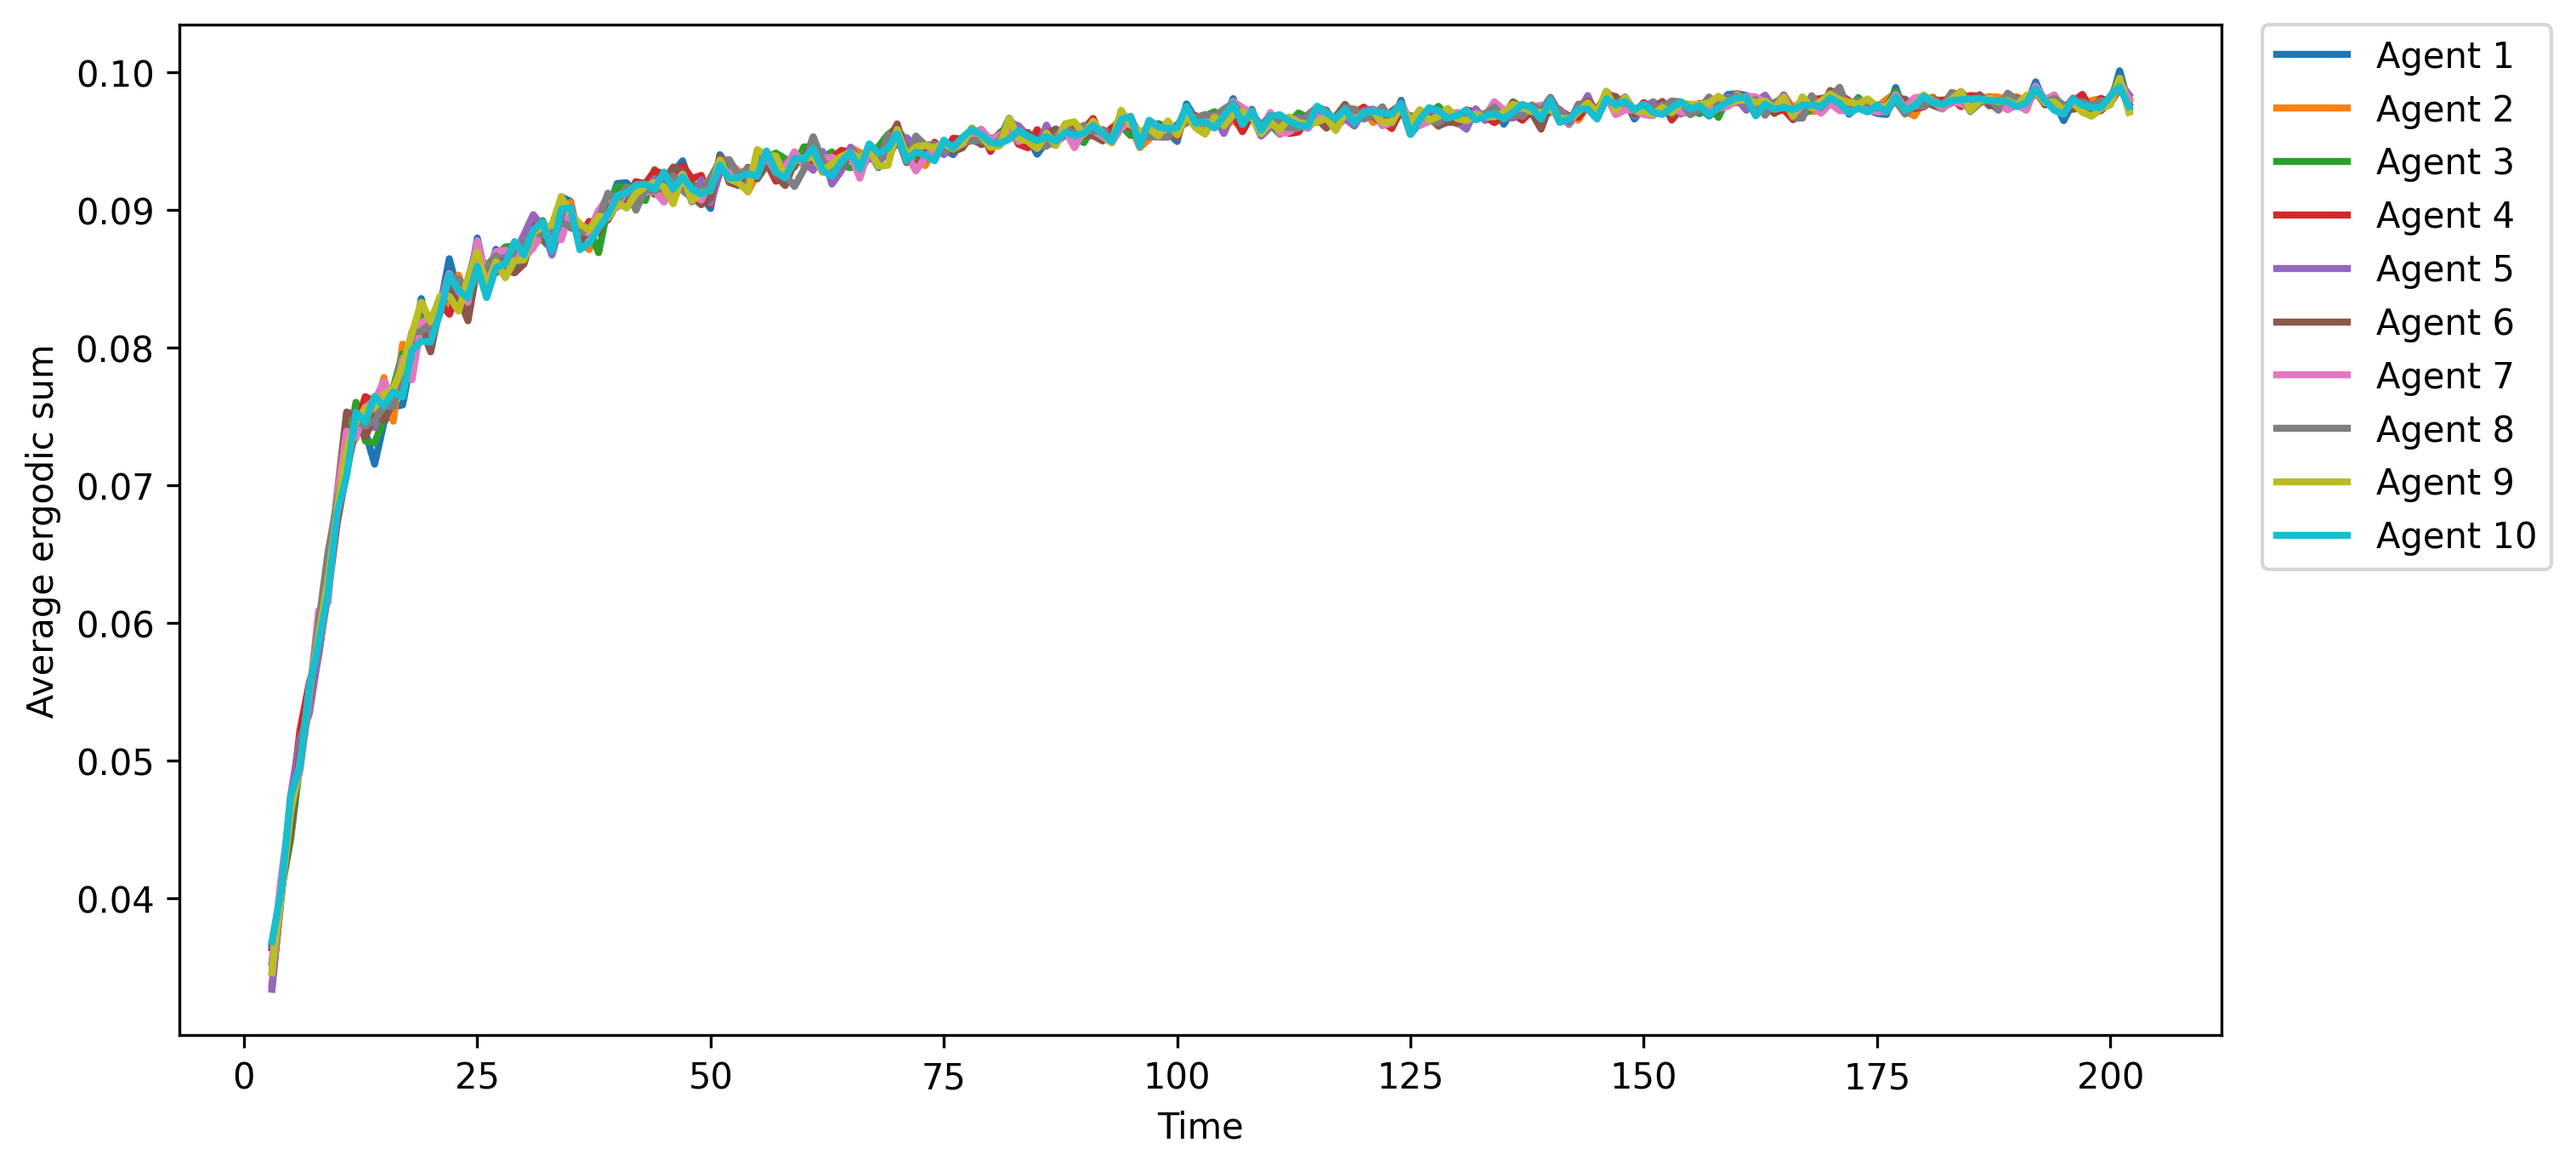
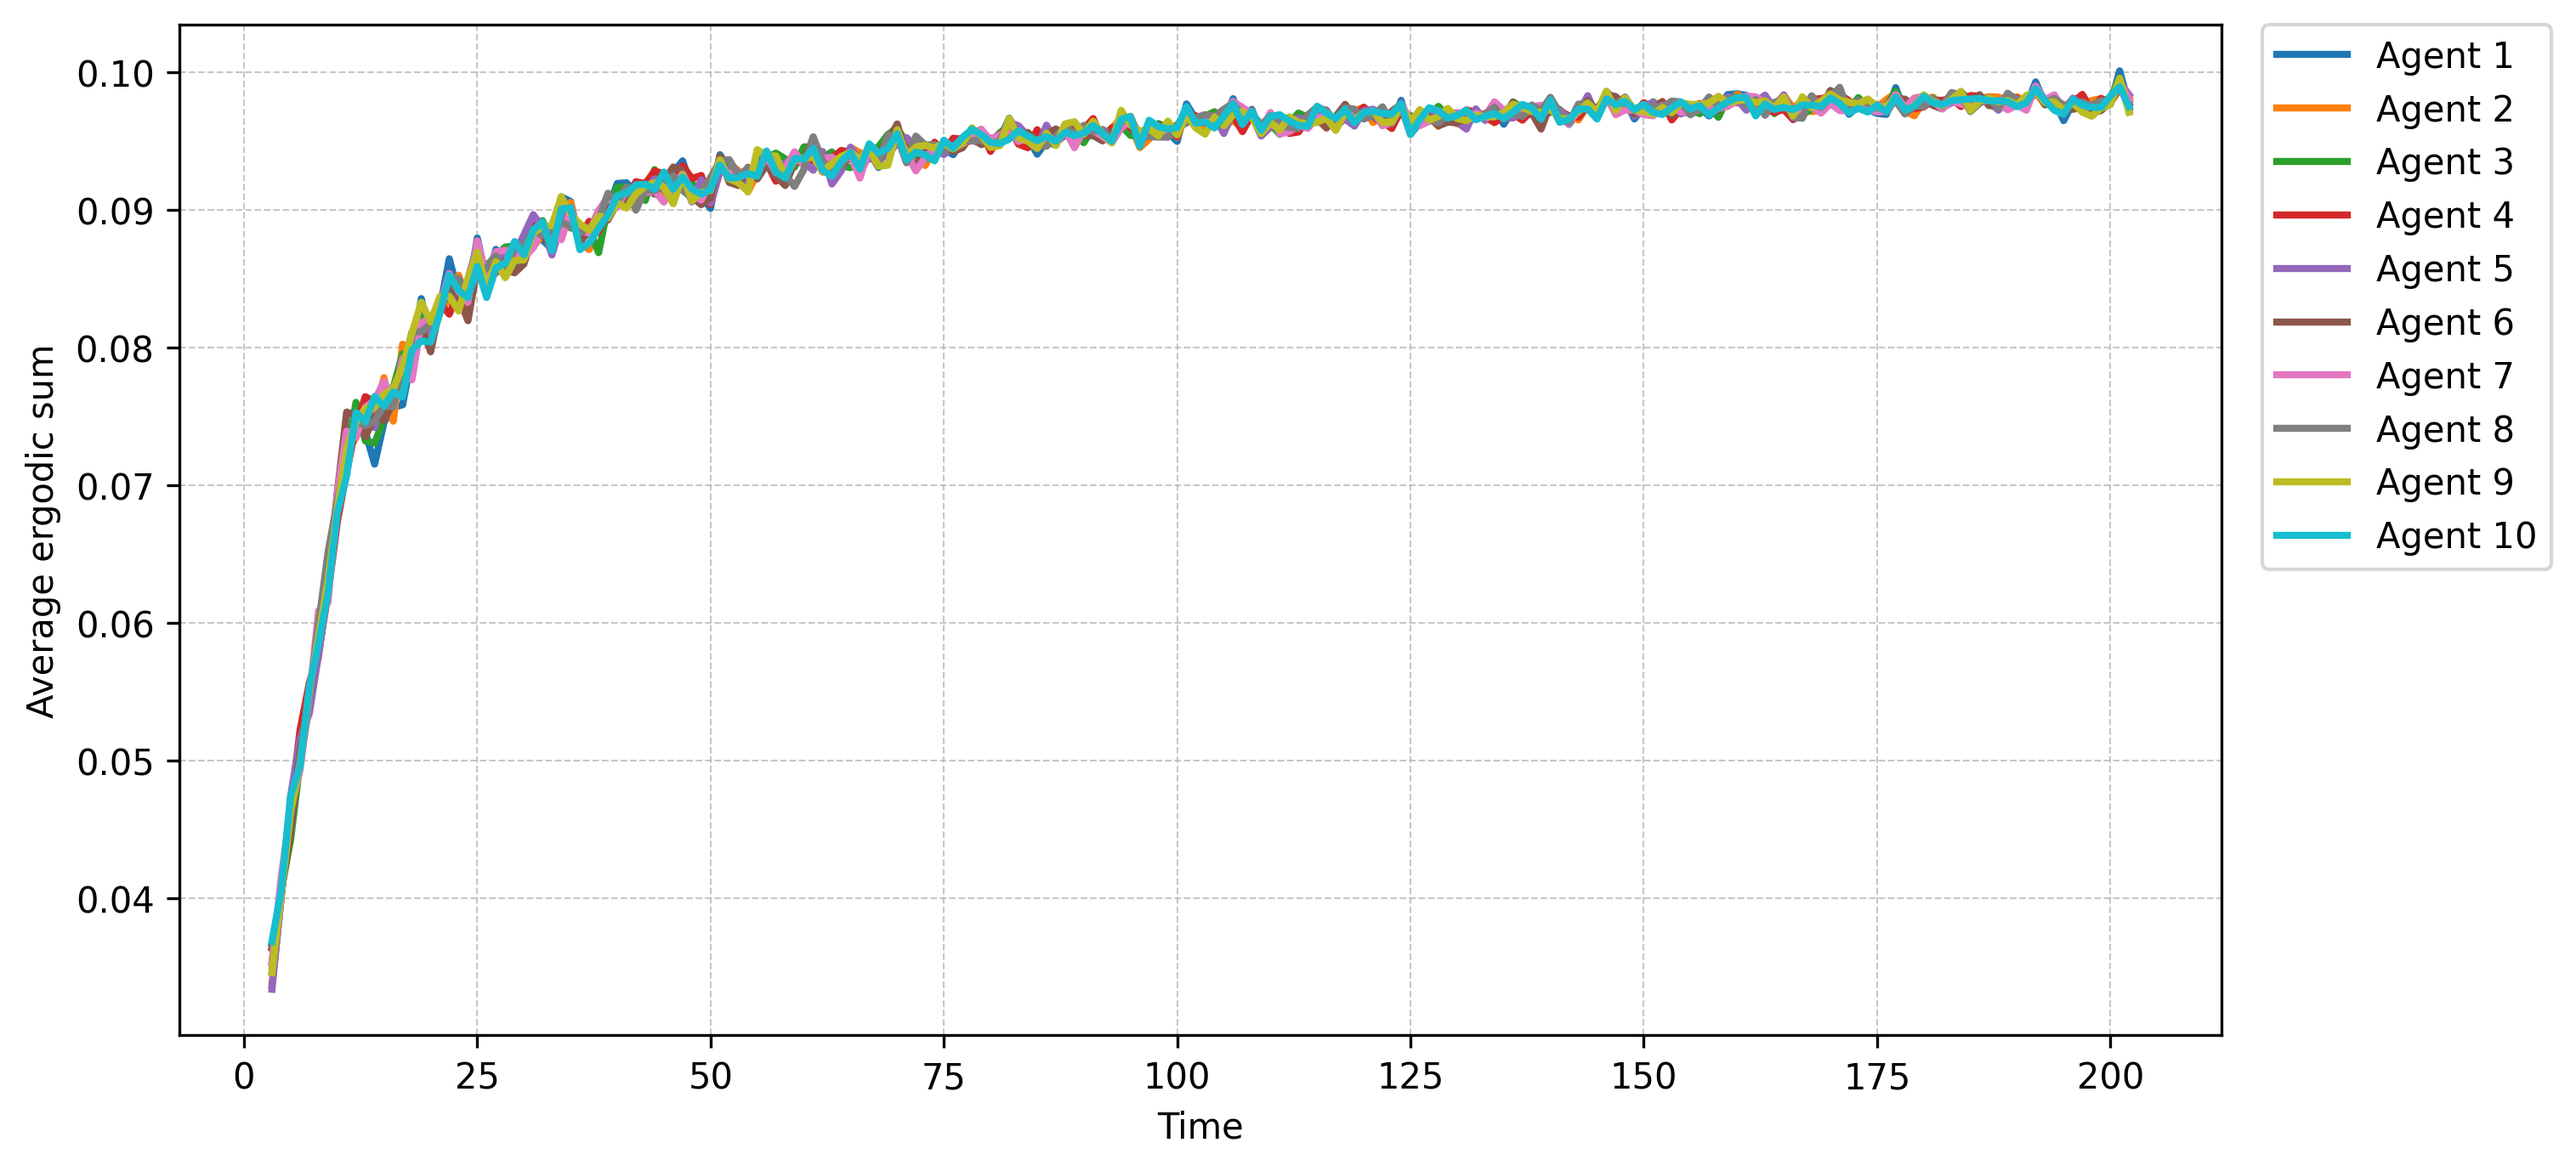
added gridlines to the figures

diff --git a/src/simulations/test.py b/src/simulations/test.py
@@ -2,7 +2,7 @@ import numpy as np
 import matplotlib.pyplot as plt 
 Time = 200
 N=10
-all_means = np.load("data/all_means_N10_M5_homo_bot.npy")
+all_means = np.load("data/all_means_N10_M5_homo_hub_spoke_bot_.npy")
 
 time = np.arange(3, Time + 3)
 
@@ -36,11 +36,11 @@ plt.ylabel("Average ergodic sum")
 plt.grid(True, linestyle="--", linewidth=0.5, alpha=0.7)
 
 plt.title(
-    rf"Average ergodic sum: $\beta = 0.2,\ \eta_B = 0.8$"
+    rf"Average ergodic sum: $\beta = 0.2,\ \eta_B = 0.05$"
 )
 
 plt.savefig(
-    "figures/all_means_N10_M5_homo_bot.png",
+    "figures/all_means_N10_M5_homo_hub_spoke_bot.png",
     dpi=300,
     bbox_inches="tight"
 )

diff --git a/src/simulations/memory_comparison.py b/src/simulations/memory_comparison.py
@@ -47,13 +47,14 @@ for agent in range(3):
 
 plt.xlabel("Time")
 plt.ylabel("Average ergodic sum")
-
+plt.grid(True, linestyle="--", linewidth=0.5, alpha=0.7)
 plt.legend(
     bbox_to_anchor=(1.02, 1),
     loc="upper left"
 )
 
 plt.tight_layout()
+
 plt.savefig(
     "figures/memory_comparison.png",
     dpi=300,
